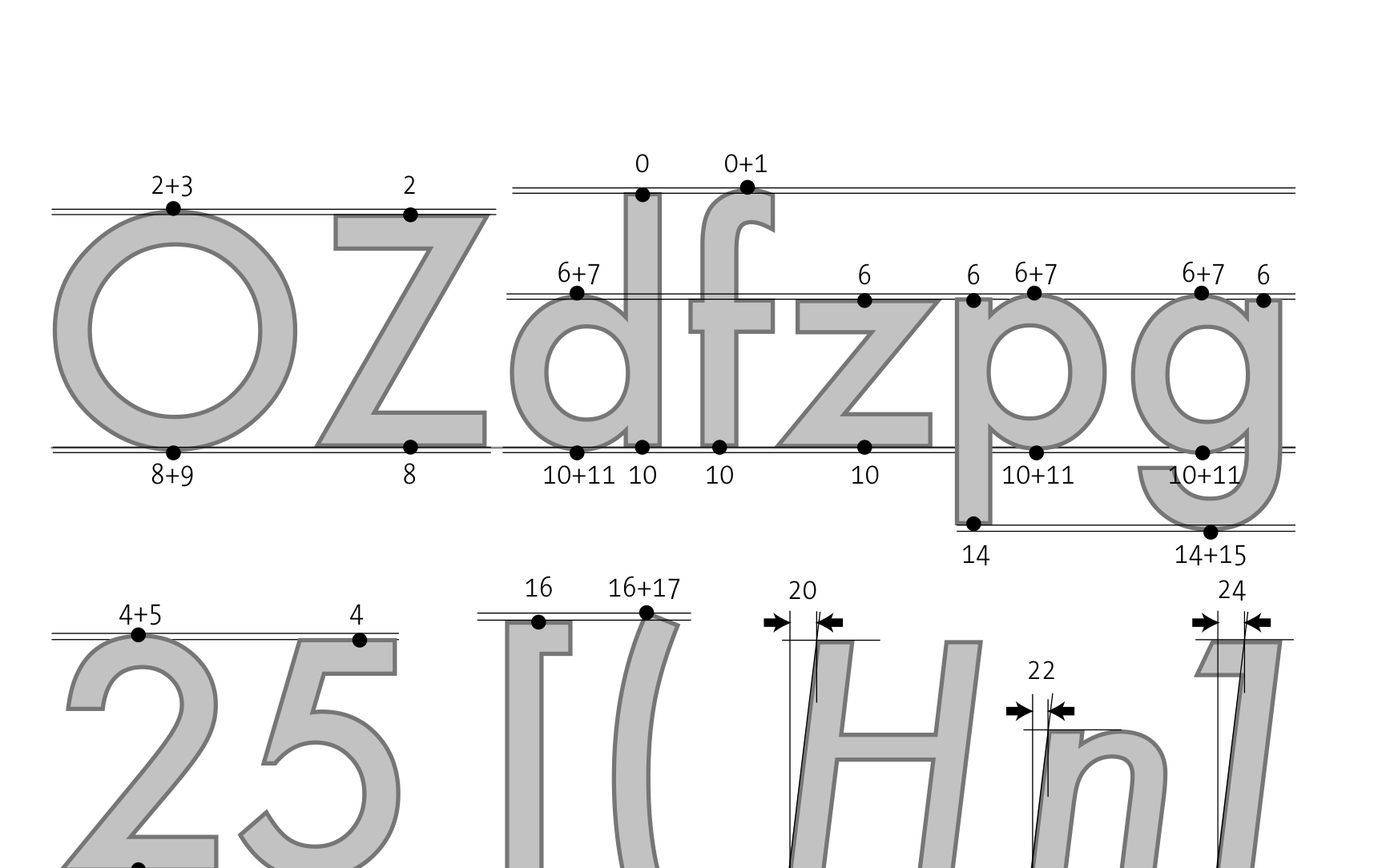
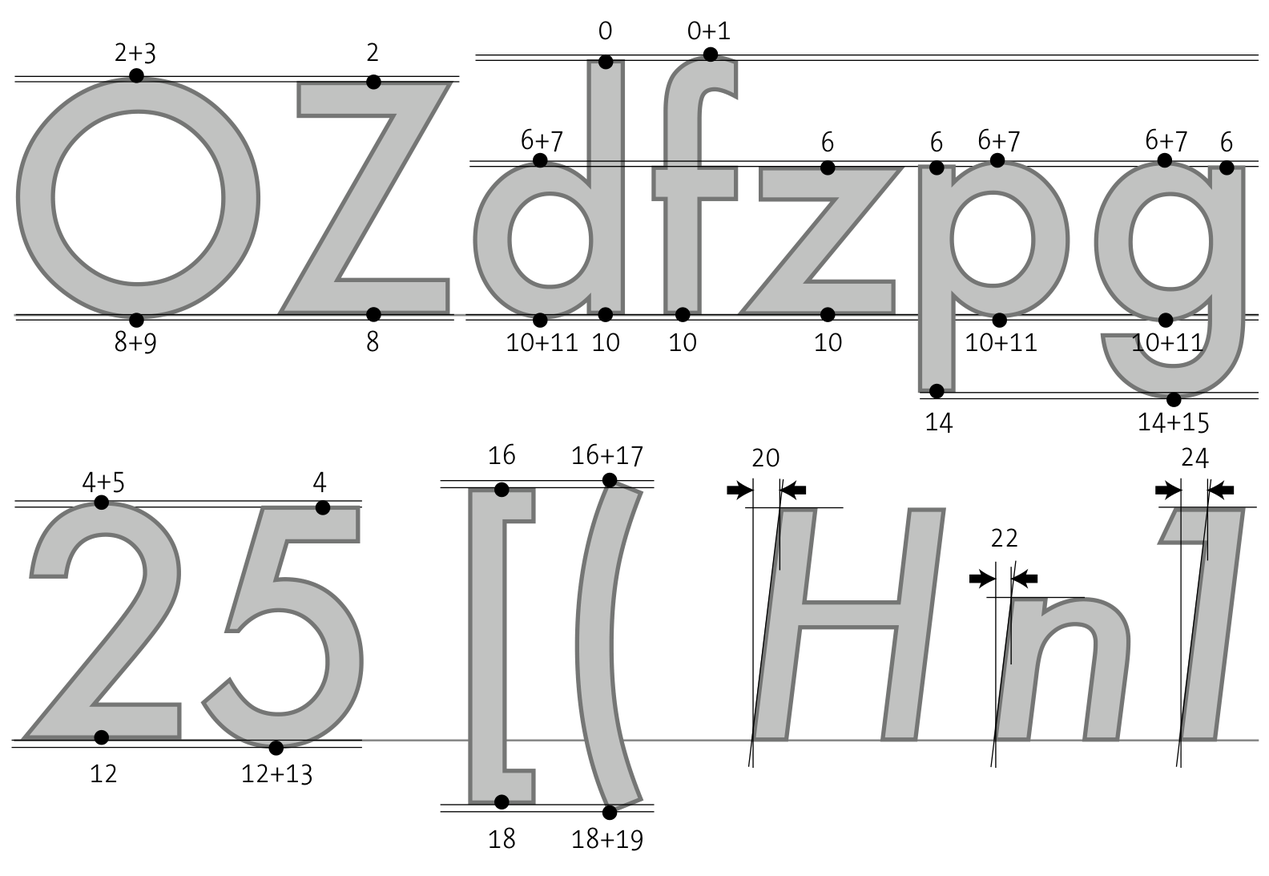
fix(typography): precision re-crop fig13-8 and fig13-9, unify complete book titles inside 《》 guillemets, and embed comprehensive 4-language SEO keywords

diff --git a/docs/ja/config.ts b/docs/ja/config.ts
@@ -153,9 +153,9 @@ export default defineConfig({
         {
           text: '所蔵文献',
           items: [
-            { text: '《規制物質》：連邦薬物法化学・法律ガイド', link: '/ja/controlled-substances/' },
-            { text: '《ロケット技術の先駆者》：ソ連宇宙開拓先駆者選集', link: '/ja/rocket-pioneers/' },
-            { text: '《フォントとエンコーディング》：Unicode と高度な組版技術全解', link: '/ja/fonts-encodings/' },
+            { text: '『規制物質：連邦薬物法の化学・法律ガイド』', link: '/ja/controlled-substances/' },
+            { text: '『ロケット技術の先駆者：ソ連宇宙開拓先駆者選集』', link: '/ja/rocket-pioneers/' },
+            { text: '『フォントとエンコーディング：Unicode と高度な組版技術全解』', link: '/ja/fonts-encodings/' },
           ],
         },
         {
@@ -224,9 +224,9 @@ function nav(): DefaultTheme.NavItem[] {
     {
       text: '蔵書庫',
       items: [
-        { text: '《規制物質》：連邦薬物法化学・法律ガイド', link: '/ja/controlled-substances/' },
-        { text: '《ロケット技術の先駆者》：ソ連宇宙開拓先駆者選集', link: '/ja/rocket-pioneers/' },
-        { text: '《フォントとエンコーディング》：Unicode と高度な組版技術全解', link: '/ja/fonts-encodings/' },
+        { text: '『規制物質：連邦薬物法の化学・法律ガイド』', link: '/ja/controlled-substances/' },
+        { text: '『ロケット技術の先駆者：ソ連宇宙開拓先駆者選集』', link: '/ja/rocket-pioneers/' },
+        { text: '『フォントとエンコーディング：Unicode と高度な組版技術全解』', link: '/ja/fonts-encodings/' },
       ],
     },
     {

diff --git a/docs/zh-hant/config.ts b/docs/zh-hant/config.ts
@@ -153,9 +153,9 @@ export default defineConfig({
         {
           text: '館藏典籍',
           items: [
-            { text: '《管制物質》：聯邦藥物法化學與法律指南', link: '/zh-hant/controlled-substances/' },
-            { text: '《火箭技術先驅》：蘇聯宇航先驅選集', link: '/zh-hant/rocket-pioneers/' },
-            { text: '《字體與編碼》：Unicode 與高級排版全解', link: '/zh-hant/fonts-encodings/' },
+            { text: '《管制物質：聯邦藥物法的化學與法律指南》', link: '/zh-hant/controlled-substances/' },
+            { text: '《火箭技術先驅：蘇聯宇航先驅選集》', link: '/zh-hant/rocket-pioneers/' },
+            { text: '《字體與編碼：Unicode 與高級排版全解》', link: '/zh-hant/fonts-encodings/' },
           ],
         },
         {
@@ -216,9 +216,9 @@ function nav(): DefaultTheme.NavItem[] {
     {
       text: '館藏書庫',
       items: [
-        { text: '《管制物質》：聯邦藥物法化學與法律指南', link: '/zh-hant/controlled-substances/' },
-        { text: '《火箭技術先驅》：蘇聯宇航先驅選集', link: '/zh-hant/rocket-pioneers/' },
-        { text: '《字體與編碼》：Unicode 與高級排版全解', link: '/zh-hant/fonts-encodings/' },
+        { text: '《管制物質：聯邦藥物法的化學與法律指南》', link: '/zh-hant/controlled-substances/' },
+        { text: '《火箭技術先驅：蘇聯宇航先驅選集》', link: '/zh-hant/rocket-pioneers/' },
+        { text: '《字體與編碼：Unicode 與高級排版全解》', link: '/zh-hant/fonts-encodings/' },
       ],
     },
     {

diff --git a/docs/zh/config.ts b/docs/zh/config.ts
@@ -153,9 +153,9 @@ export default defineConfig({
         {
           text: '馆藏典籍',
           items: [
-            { text: '《管制物质》：联邦药物法化学与法律指南', link: '/controlled-substances/' },
-            { text: '《火箭技术先驱》：苏联宇航先驱选集', link: '/rocket-pioneers/' },
-            { text: '《字体与编码》：Unicode 与高级排版全解', link: '/fonts-encodings/' },
+            { text: '《管制物质：联邦药物法的化学与法律指南》', link: '/controlled-substances/' },
+            { text: '《火箭技术先驱：苏联宇航先驱选集》', link: '/rocket-pioneers/' },
+            { text: '《字体与编码：Unicode 与高级排版全解》', link: '/fonts-encodings/' },
           ],
         },
         {
@@ -216,9 +216,9 @@ function nav(): DefaultTheme.NavItem[] {
     {
       text: '馆藏书库',
       items: [
-        { text: '《管制物质》：联邦药物法化学与法律指南', link: '/controlled-substances/' },
-        { text: '《火箭技术先驱》：苏联宇航先驱选集', link: '/rocket-pioneers/' },
-        { text: '《字体与编码》：Unicode 与高级排版全解', link: '/fonts-encodings/' },
+        { text: '《管制物质：联邦药物法的化学与法律指南》', link: '/controlled-substances/' },
+        { text: '《火箭技术先驱：苏联宇航先驱选集》', link: '/rocket-pioneers/' },
+        { text: '《字体与编码：Unicode 与高级排版全解》', link: '/fonts-encodings/' },
       ],
     },
     {

diff --git a/docs/zh/catalogue.md b/docs/zh/catalogue.md
@@ -78,7 +78,7 @@ $$\text{VML-}[\text{LCC 分类与著者号}]\text{-}[\text{归档年份}]$$
 
 ---
 
-## 馆藏典籍：《管制物质》（Controlled Substances）
+## 馆藏典籍：《管制物质：联邦药物法的化学与法律指南》（Controlled Substances / 規制物質 / 管制物質）
 
 ### 典籍著录总档
 
@@ -130,7 +130,7 @@ $$\text{VML-}[\text{LCC 分类与著者号}]\text{-}[\text{归档年份}]$$
 
 ---
 
-## 馆藏典籍：《火箭技术先驱》（Pioneers of Rocket Technology）
+## 馆藏典籍：《火箭技术先驱：苏联宇航先驱选集》（Pioneers of Rocket Technology / ロケット技術の先駆者 / 火箭技術先驅）
 
 ### 典籍著录总档
 
@@ -225,7 +225,7 @@ $$\text{VML-}[\text{LCC 分类与著者号}]\text{-}[\text{归档年份}]$$
 
 ---
 
-## 馆藏典籍：《字体与编码》（Fonts & Encodings）
+## 馆藏典籍：《字体与编码：Unicode 与高级排版全解》（Fonts & Encodings / フォントとエンコーディング / 字體與編碼）
 
 ### 典籍著录总档
 
@@ -282,19 +282,19 @@ $$\text{VML-}[\text{LCC 分类与著者号}]\text{-}[\text{归档年份}]$$
 
 | 跨学科主题标目 | 核心理论 / 法规基石 | 对应馆藏典籍 | 重点研读章节 |
 | :--- | :--- | :--- | :--- |
-| **神经药理与受体动力学** | 5-HT 羟色胺受体与阿片受体构效拓扑 | 《管制物质》 | [第四章：分子结构式图解](/controlled-substances/chapter-4) |
-| **药物列管法理与司法边界** | CSA 分级体系、813 类似物实质相似性准则 | 《管制物质》 | [第一章：法规细节与定义](/controlled-substances/chapter-1) |
-| **法庭毒理与定性分析** | GC-MS、NMR 与经验化学式 Hill 索引库 | 《管制物质》 | [第七章：经验实验式索引](/controlled-substances/chapter-7) |
-| **变质量分析力学** | 梅谢尔斯基微分方程、动量守恒定理 | 《火箭技术先驱》 | [第二编·第一章：原理与方程](/rocket-pioneers/kondratyuk-build/section-1) |
-| **月球轨道交会（LOR）** | 双阶段登月轨道、轻型着陆器分离与交会 | 《火箭技术先驱》 | [第三编·第 7 章：登月与 LOR](/rocket-pioneers/kondratyuk-space/chapter-7) |
-| **天体引力助推（引力弹弓）** | 借力双曲线飞越、行星引力场能量转移 | 《火箭技术先驱》 | [第二编·第六章：引力弹弓](/rocket-pioneers/kondratyuk-build/section-6) |
-| **大气滑翔再入与防热气动** | 钝头体激波阻力、升力控制再入走廊 | 《火箭技术先驱》 | [第三编·第 9 章：再入大气减速](/rocket-pioneers/kondratyuk-space/chapter-9) |
-| **航天科技档案版本学** | TsGAOR 卷宗 112、ARAN 基金原始手稿考订 | 《火箭技术先驱》 | [主编序言](/rocket-pioneers/preface) 与 [文献全景索引](/rocket-pioneers/bibliography) |
-| **字符与字形二元论** | 抽象编码与具体视觉图元的解耦及芭蕾映射 | 《字体与编码》 | [导言 · 探索篇](/fonts-encodings/introduction) |
-| **字母解剖学与印刷史** | 字母部件、凸版字盘手合子与光学视错觉修正 | 《字体与编码》 | [导言 · 探索篇](/fonts-encodings/introduction) |
-| **字符编码史与 Unicode** | 从 ASCII、ISO 8859、CJK 到 Universal Character Set | 《字体与编码》 | [第一章：前 Unicode 时代编码体系](/fonts-encodings/chapter-1) |
-| **数字字体工程与虚拟机** | TrueType 虚拟机字节码、OpenType 与 AAT 自动机 | 《字体与编码》 | [典籍概述与卷目大纲](/fonts-encodings/) |
-| **排印几何与多项式样条** | Pierre Bézier 三次参数曲线与 Bernstein 基函数证明 | 《字体与编码》 | [典籍概述与卷目大纲](/fonts-encodings/) |
+| **神经药理与受体动力学** | 5-HT 羟色胺受体与阿片受体构效拓扑 | 《管制物质：联邦药物法的化学与法律指南》 | [第四章：分子结构式图解](/controlled-substances/chapter-4) |
+| **药物列管法理与司法边界** | CSA 分级体系、813 类似物实质相似性准则 | 《管制物质：联邦药物法的化学与法律指南》 | [第一章：法规细节与定义](/controlled-substances/chapter-1) |
+| **法庭毒理与定性分析** | GC-MS、NMR 与经验化学式 Hill 索引库 | 《管制物质：联邦药物法的化学与法律指南》 | [第七章：经验实验式索引](/controlled-substances/chapter-7) |
+| **变质量分析力学** | 梅谢尔斯基微分方程、动量守恒定理 | 《火箭技术先驱：苏联宇航先驱选集》 | [第二编·第一章：原理与方程](/rocket-pioneers/kondratyuk-build/section-1) |
+| **月球轨道交会（LOR）** | 双阶段登月轨道、轻型着陆器分离与交会 | 《火箭技术先驱：苏联宇航先驱选集》 | [第三编·第 7 章：登月与 LOR](/rocket-pioneers/kondratyuk-space/chapter-7) |
+| **天体引力助推（引力弹弓）** | 借力双曲线飞越、行星引力场能量转移 | 《火箭技术先驱：苏联宇航先驱选集》 | [第二编·第六章：引力弹弓](/rocket-pioneers/kondratyuk-build/section-6) |
+| **大气滑翔再入与防热气动** | 钝头体激波阻力、升力控制再入走廊 | 《火箭技术先驱：苏联宇航先驱选集》 | [第三编·第 9 章：再入大气减速](/rocket-pioneers/kondratyuk-space/chapter-9) |
+| **航天科技档案版本学** | TsGAOR 卷宗 112、ARAN 基金原始手稿考订 | 《火箭技术先驱：苏联宇航先驱选集》 | [主编序言](/rocket-pioneers/preface) 与 [文献全景索引](/rocket-pioneers/bibliography) |
+| **字符与字形二元论** | 抽象编码与具体视觉图元的解耦及芭蕾映射 | 《字体与编码：Unicode 与高级排版全解》 | [导言 · 探索篇](/fonts-encodings/introduction) |
+| **字母解剖学与印刷史** | 字母部件、凸版字盘手合子与光学视错觉修正 | 《字体与编码：Unicode 与高级排版全解》 | [导言 · 探索篇](/fonts-encodings/introduction) |
+| **字符编码史与 Unicode** | 从 ASCII、ISO 8859、CJK 到 Universal Character Set | 《字体与编码：Unicode 与高级排版全解》 | [第一章：前 Unicode 时代编码体系](/fonts-encodings/chapter-1) |
+| **数字字体工程与虚拟机** | TrueType 虚拟机字节码、OpenType 与 AAT 自动机 | 《字体与编码：Unicode 与高级排版全解》 | [典籍概述与卷目大纲](/fonts-encodings/) |
+| **排印几何与多项式样条** | Pierre Bézier 三次参数曲线与 Bernstein 基函数证明 | 《字体与编码：Unicode 与高级排版全解》 | [典籍概述与卷目大纲](/fonts-encodings/) |
 
 ---
 

diff --git a/docs/zh-hant/catalogue.md b/docs/zh-hant/catalogue.md
@@ -61,7 +61,7 @@ $$\text{VML-}[\text{LCC 分類與著者號}]\text{-}[\text{歸檔年份}]$$
 
 ---
 
-## 館藏典籍：《管制物質》（Controlled Substances）
+## 館藏典籍：《管制物質：聯邦藥物法的化學與法律指南》（Controlled Substances / 規制物質 / 管制物质）
 
 ### 典籍著錄總檔
 
@@ -113,7 +113,7 @@ $$\text{VML-}[\text{LCC 分類與著者號}]\text{-}[\text{歸檔年份}]$$
 
 ---
 
-## 館藏典籍：《火箭技術先驅》（Pioneers of Rocket Technology）
+## 館藏典籍：《火箭技術先驅：蘇聯宇航先驅選集》（Pioneers of Rocket Technology / ロケット技術の先駆者 / 火箭技术先驱）
 
 ### 典籍著錄總檔
 
@@ -214,14 +214,14 @@ $$\text{VML-}[\text{LCC 分類與著者號}]\text{-}[\text{歸檔年份}]$$
 
 | 跨學科主題標目 | 核心理論 / 法規基石 | 對應館藏典籍 | 重點研讀章節 |
 | :--- | :--- | :--- | :--- |
-| **神經藥理與受體動力學** | 5-HT 羥色胺受體與阿片受體構效拓撲 | 《管制物質》 | [第四章：分子結構式圖解](/zh-hant/controlled-substances/chapter-4) |
-| **藥物列管法理與司法邊界** | CSA 分級體系、813 類似物實質相似性準則 | 《管制物質》 | [第一章：法規細節與定義](/zh-hant/controlled-substances/chapter-1) |
-| **法庭毒理與定性分析** | GC-MS、NMR 與經驗化學式 Hill 索引庫 | 《管制物質》 | [第七章：經驗實驗式索引](/zh-hant/controlled-substances/chapter-7) |
-| **變質量分析力學** | 梅謝爾斯基微分方程、動量守恆定理 | 《火箭技術先驅》 | [第二編·第一章：原理與方程](/zh-hant/rocket-pioneers/kondratyuk-build/section-1) |
-| **月球軌道交會（LOR）** | 雙階段登月軌道、輕型着陸器分離與交會 | 《火箭技術先驅》 | [第三編·第 7 章：登月與 LOR](/zh-hant/rocket-pioneers/kondratyuk-space/chapter-7) |
-| **天體引力助推（引力彈弓）** | 借力雙曲線飛越、行星引力場能量轉移 | 《火箭技術先驅》 | [第二編·第六章：引力彈弓](/zh-hant/rocket-pioneers/kondratyuk-build/section-6) |
-| **大氣滑翔再入與防熱氣動** | 鈍頭體激波阻力、升力控制再入走廊 | 《火箭技術先驅》 | [第三編·第 9 章：再入大氣減速](/zh-hant/rocket-pioneers/kondratyuk-space/chapter-9) |
-| **航天科技檔案版本學** | TsGAOR 卷宗 112、ARAN 基金原始手稿考訂 | 《火箭技術先驅》 | [主編序言](/zh-hant/rocket-pioneers/preface) 與 [文獻全景索引](/zh-hant/rocket-pioneers/bibliography) |
+| **神經藥理與受體動力學** | 5-HT 羥色胺受體與阿片受體構效拓撲 | 《管制物質：聯邦藥物法的化學與法律指南》 | [第四章：分子結構式圖解](/zh-hant/controlled-substances/chapter-4) |
+| **藥物列管法理與司法邊界** | CSA 分級體系、813 類似物實質相似性準則 | 《管制物質：聯邦藥物法的化學與法律指南》 | [第一章：法規細節與定義](/zh-hant/controlled-substances/chapter-1) |
+| **法庭毒理與定性分析** | GC-MS、NMR 與經驗化學式 Hill 索引庫 | 《管制物質：聯邦藥物法的化學與法律指南》 | [第七章：經驗實驗式索引](/zh-hant/controlled-substances/chapter-7) |
+| **變質量分析力學** | 梅謝爾斯基微分方程、動量守恆定理 | 《火箭技術先驅：蘇聯宇航先驅選集》 | [第二編·第一章：原理與方程](/zh-hant/rocket-pioneers/kondratyuk-build/section-1) |
+| **月球軌道交會（LOR）** | 雙階段登月軌道、輕型着陸器分離與交會 | 《火箭技術先驅：蘇聯宇航先驅選集》 | [第三編·第 7 章：登月與 LOR](/zh-hant/rocket-pioneers/kondratyuk-space/chapter-7) |
+| **天體引力助推（引力彈弓）** | 借力雙曲線飛越、行星引力場能量轉移 | 《火箭技術先驅：蘇聯宇航先驅選集》 | [第二編·第六章：引力彈弓](/zh-hant/rocket-pioneers/kondratyuk-build/section-6) |
+| **大氣滑翔再入與防熱氣動** | 鈍頭體激波阻力、升力控制再入走廊 | 《火箭技術先驅：蘇聯宇航先驅選集》 | [第三編·第 9 章：再入大氣減速](/zh-hant/rocket-pioneers/kondratyuk-space/chapter-9) |
+| **航天科技檔案版本學** | TsGAOR 卷宗 112、ARAN 基金原始手稿考訂 | 《火箭技術先驅：蘇聯宇航先驅選集》 | [主編序言](/zh-hant/rocket-pioneers/preface) 與 [文獻全景索引](/zh-hant/rocket-pioneers/bibliography) |
 
 ---
 

diff --git a/docs/ja/catalogue.md b/docs/ja/catalogue.md
@@ -198,14 +198,14 @@ $$\text{VML-}[\text{LCC 請求記号}]\text{.}[\text{カッター記号}]\text{-
 
 | 学際テーマ | 核心理論 / 法的根拠 | 該当所蔵典籍 | 重点研読章 |
 | :--- | :--- | :--- | :--- |
-| **神経薬理学と受容体動態** | 5-HTセロトニン・オピオイド受容体構造活性相関 | 《規制物質》 | [第4章：分子構造式図版](/ja/controlled-substances/chapter-4) |
-| **薬物規制法理と司法的境界** | CSAスケジュール体系、813条類似体実質類似性基準 | 《規制物質》 | [第1章：法的詳細と定義](/ja/controlled-substances/chapter-1) |
-| **鑑識化学・毒性分析** | GC-MS、NMRおよびヒル方式実験式索引 | 《規制物質》 | [第7章：実験式・化学索引](/ja/controlled-substances/chapter-7) |
-| **可変質量解析力学** | メシチェルスキー微分方程式、運動量保存則 | 《ロケット技術の先駆者》 | [第二編·第1章：原理と方程式](/ja/rocket-pioneers/kondratyuk-build/section-1) |
-| **月軌道ランデブー（LOR）** | 二段階月面降下・上昇軌道、母船待機 | 《ロケット技術の先駆者》 | [第三編·第7章：月面着陸とLOR](/ja/rocket-pioneers/kondratyuk-space/chapter-7) |
-| **天体引力アシスト（スイングバイ）** | 双曲線接近通過、惑星重力場によるエネルギー授受 | 《ロケット技術の先駆者》 | [第二編·第6章：引力スイングバイ](/ja/rocket-pioneers/kondratyuk-build/section-6) |
-| **大気滑空再突入と空力減速** | 鈍頭体衝撃波、揚力制御再突入コリドー | 《ロケット技術の先駆者》 | [第三編·第9章：大気減速再突入](/ja/rocket-pioneers/kondratyuk-space/chapter-9) |
-| **航空宇宙科学アーカイブ文献学** | TsGAOR 112号公文書、ARAN基金手稿原本考証 | 《ロケット技術の先駆者》 | [主編序言](/ja/rocket-pioneers/preface) および [文献全景索引](/ja/rocket-pioneers/bibliography) |
+| **神経薬理学と受容体動態** | 5-HTセロトニン・オピオイド受容体構造活性相関 | 『規制物質：連邦薬物法の化学・法律ガイド』 | [第4章：分子構造式図版](/ja/controlled-substances/chapter-4) |
+| **薬物規制法理と司法的境界** | CSAスケジュール体系、813条類似体実質類似性基準 | 『規制物質：連邦薬物法の化学・法律ガイド』 | [第1章：法的詳細と定義](/ja/controlled-substances/chapter-1) |
+| **鑑識化学・毒性分析** | GC-MS、NMRおよびヒル方式実験式索引 | 『規制物質：連邦薬物法の化学・法律ガイド』 | [第7章：実験式・化学索引](/ja/controlled-substances/chapter-7) |
+| **可変質量解析力学** | メシチェルスキー微分方程式、運動量保存則 | 『ロケット技術の先駆者：ソ連宇宙開拓先駆者選集』 | [第二編·第1章：原理と方程式](/ja/rocket-pioneers/kondratyuk-build/section-1) |
+| **月軌道ランデブー（LOR）** | 二段階月面降下・上昇軌道、母船待機 | 『ロケット技術の先駆者：ソ連宇宙開拓先駆者選集』 | [第三編·第7章：月面着陸とLOR](/ja/rocket-pioneers/kondratyuk-space/chapter-7) |
+| **天体引力アシスト（スイングバイ）** | 双曲線接近通過、惑星重力場によるエネルギー授受 | 『ロケット技術の先駆者：ソ連宇宙開拓先駆者選集』 | [第二編·第6章：引力スイングバイ](/ja/rocket-pioneers/kondratyuk-build/section-6) |
+| **大気滑空再突入と空力減速** | 鈍頭体衝撃波、揚力制御再突入コリドー | 『ロケット技術の先駆者：ソ連宇宙開拓先駆者選集』 | [第三編·第9章：大気減速再突入](/ja/rocket-pioneers/kondratyuk-space/chapter-9) |
+| **航空宇宙科学アーカイブ文献学** | TsGAOR 112号公文書、ARAN基金手稿原本考証 | 『ロケット技術の先駆者：ソ連宇宙開拓先駆者選集』 | [主編序言](/ja/rocket-pioneers/preface) および [文献全景索引](/ja/rocket-pioneers/bibliography) |
 
 ---
 

diff --git a/docs/ja/fonts-encodings/index.md b/docs/ja/fonts-encodings/index.md
@@ -1,6 +1,10 @@
 ---
-title: 蔵書典籍 ·『フォントとエンコーディング：Unicodeから高度な組版技術まで』
-description: ヴワル魔法図書館 蔵書典籍：ヤニス・ハラランブス（Yannis Haralambous）の記念碑的大著『Fonts & Encodings』日本語学術訳・図版完全収録版。
+title: 『フォントとエンコーディング：Unicode と高度な組版技術全解』
+description: ヴワル魔法図書館 蔵書典籍：『フォントとエンコーディング：Unicode と高度な組版技術全解』（Fonts & Encodings / 字体与编码 / 字體與編碼）。ヤニス・ハラランブス（Yannis Haralambous）記念碑的大著日本語学術訳・図版完全収録版。
+head:
+  - - meta
+    - name: keywords
+      content: フォントとエンコーディング, 字体与编码, 字體與編碼, Fonts & Encodings, Yannis Haralambous, Unicode, OpenType, TrueType, Typography, 組版技術, 文字コード, フォント設計
 ---
 
 # 蔵書典籍 ·『フォントとエンコーディング：Unicodeから高度な組版技術まで』

diff --git a/docs/zh-hant/fonts-encodings/index.md b/docs/zh-hant/fonts-encodings/index.md
@@ -1,6 +1,10 @@
 ---
-title: 館藏第三號 · 字體與編碼：從 Unicode 到高級排版及其中一切
-description: ヴ瓦爾魔法圖書館 館藏第三號典籍：雅尼斯·哈拉蘭布斯（Yannis Haralambous）曠世鉅著《Fonts & Encodings》全書深度學術漢譯與圖解典藏。
+title: 《字體與編碼：Unicode 與高級排版全解》
+description: ヴ瓦爾魔法圖書館 館藏典籍：《字體與編碼：Unicode 與高級排版全解》（Fonts & Encodings / フォントとエンコーディング / 字体与编码）。雅尼斯·哈拉蘭布斯（Yannis Haralambous）曠世鉅著全書深度學術漢譯與圖解典藏。
+head:
+  - - meta
+    - name: keywords
+      content: 字體與編碼, 字体与编码, フォントとエンコーディング, Fonts & Encodings, Yannis Haralambous, Unicode, OpenType, TrueType, Typography, 排版技術, 字符集, 字體設計
 ---
 
 # 館藏第三號典籍 ·《字體與編碼：從 Unicode 到高級排版及其中一切》

diff --git a/docs/zh/fonts-encodings/index.md b/docs/zh/fonts-encodings/index.md
@@ -1,6 +1,10 @@
 ---
-title: 馆藏第三号 · 字体与编码：从 Unicode 到高级排版及其中一切
-description: ヴ瓦尔魔法图书馆 馆藏第三号典籍：雅尼斯·哈拉兰布斯（Yannis Haralambous）旷世巨著《Fonts & Encodings》全书深度学术汉译与图解典藏。
+title: 《字体与编码：Unicode 与高级排版全解》
+description: ヴ瓦尔魔法图书馆 馆藏典籍：《字体与编码：Unicode 与高级排版全解》（Fonts & Encodings / フォントとエンコーディング / 字體與編碼）。雅尼斯·哈拉兰布斯（Yannis Haralambous）旷世巨著全书深度学术汉译与图解典藏。
+head:
+  - - meta
+    - name: keywords
+      content: 字体与编码, 字體與編碼, フォントとエンコーディング, Fonts & Encodings, Yannis Haralambous, Unicode, OpenType, TrueType, Typography, 排版技术, 字符集, 字体设计
 ---
 
 # 馆藏第三号典籍 ·《字体与编码：从 Unicode 到高级排版及其中一切》

diff --git a/docs/ja/rocket-pioneers/index.md b/docs/ja/rocket-pioneers/index.md
@@ -1,6 +1,10 @@
 ---
-title: "蔵書第二号 · ロケット技術の先駆者たち：選集"
-description: "ヴワル魔法図書館 蔵書第二号典籍：ソ連科学アカデミー自然科学・技術史研究所編纂、NASA技術翻訳 NASA TT F-9285 日本語全訳本。"
+title: 『ロケット技術の先駆者：ソ連宇宙開拓先駆者選集』
+description: ソ連科学アカデミー自然科学技術史研究所編『ロケット技術の先駆者：ソ連宇宙開拓先駆者選集』（Pioneers of Rocket Technology / 火箭技术先驱 / 火箭技術先驅）、NASA TT F-9285 日本語全訳文献。
+head:
+  - - meta
+    - name: keywords
+      content: ロケット技術の先駆者, 火箭技术先驱, 火箭技術先驅, Pioneers of Rocket Technology, ツィオルコフスキー, コンドラチュク, 軌道力学, 月軌道ランデブー, LOR
 ---
 
 # 蔵書第二号典籍 ·『ロケット技術の先駆者たち：選集』

diff --git a/docs/ja/controlled-substances/index.md b/docs/ja/controlled-substances/index.md
@@ -1,7 +1,11 @@
 ---
-title: 規制物質：連邦薬物法の化学的・法的ガイド
-description: アレクサンダー・T・シュルギン（Alexander T. Shulgin）の古典的名著『Controlled Substances』全訳・図解ガイド
+title: 『規制物質：連邦薬物法の化学・法律ガイド』
+description: アレクサンダー・シュルギン（Alexander T. Shulgin）世界的名著『規制物質：連邦薬物法の化学・法律ガイド』（Controlled Substances / 管制物质 / 管制物質）日本語全訳と分子構造図版。
 hideReprintNotice: true
+head:
+  - - meta
+    - name: keywords
+      content: 規制物質, 管制物质, 管制物質, Controlled Substances, Alexander Shulgin, 連邦薬物法, 神経薬理学, 構造活性相関, 分子構造式
 ---
 
 # 規制物質：連邦薬物法の化学的・法的ガイド

diff --git a/docs/zh-hant/rocket-pioneers/index.md b/docs/zh-hant/rocket-pioneers/index.md
@@ -1,6 +1,10 @@
 ---
-title: 館藏第二號 · 火箭技術先驅：選集
-description: ヴ瓦爾魔法圖書館 館藏第二號典籍：蘇聯科學院自然科學與技術史研究所編纂，NASA 技術翻譯 NASA TT F-9285 中文全譯本。
+title: 《火箭技術先驅：蘇聯宇航先驅選集》
+description: 蘇聯科學院自然科學與技術史研究所編纂《火箭技術先驅：蘇聯宇航先驅選集》（Pioneers of Rocket Technology / ロケット技術の先駆者 / 火箭技术先驱），NASA TT F-9285 中文全譯本。
+head:
+  - - meta
+    - name: keywords
+      content: 火箭技術先驅, 火箭技术先驱, ロケット技術の先駆者, Pioneers of Rocket Technology, 齊奧爾科夫斯基, 康德拉秋克, 航天力學, 登月軌道, LOR, 變質量力學
 ---
 
 # 館藏第二號典籍 ·《火箭技術先驅：選集》
